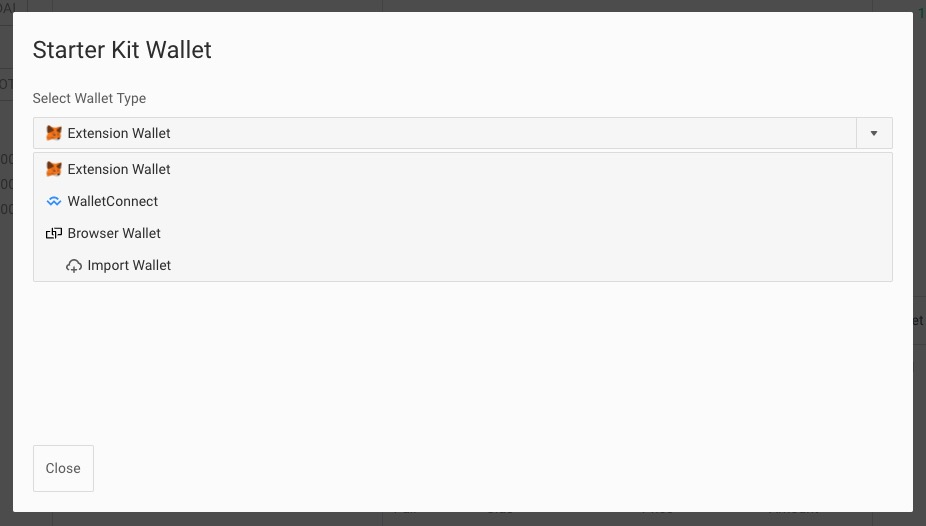
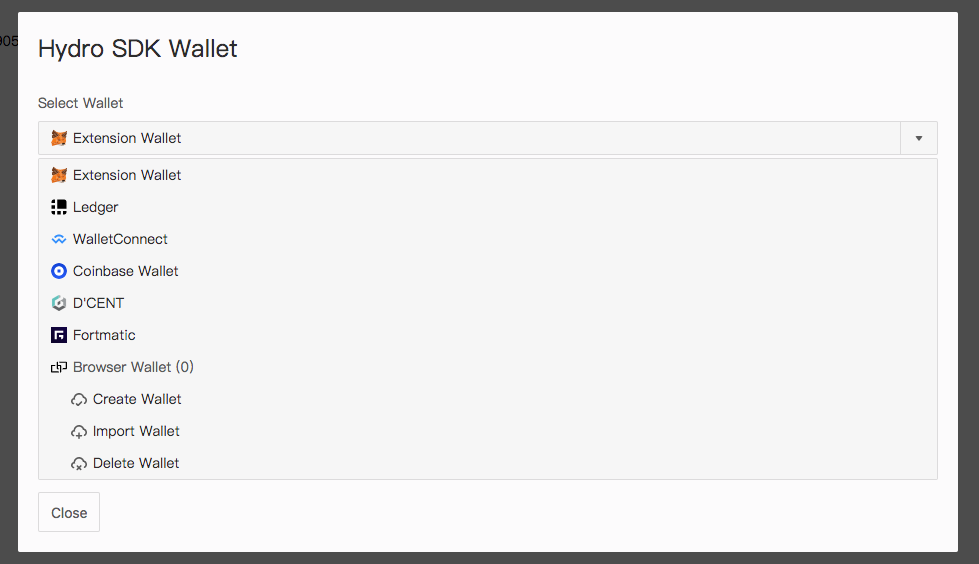
support fortmatic & update readme

Changed region(s): [[0.0, 0.0, 0.9978, 0.9734], [0.0302, 0.9734, 0.9676, 1.0], [0.0605, 0.6996, 0.1814, 0.8517]]

diff --git a/src/components/Svg/index.tsx b/src/components/Svg/index.tsx
@@ -321,6 +321,12 @@ class Svg extends React.PureComponent<Props, any> {
             </linearGradient>
           </defs>
         </svg>)
+      case 'fortmatic':
+        return (
+          <svg xmlns="http://www.w3.org/2000/svg" version="1.1" id="Layer_1" x="0px" y="0px" width="16" height="16" viewBox="0 0 256 256" enableBackground="new 0 0 256 256">  
[1 lines of base64/hex data omitted]
+          </svg>
+        )
       default:
         return null;
     }

diff --git a/src/components/Wallet/index.tsx b/src/components/Wallet/index.tsx
@@ -17,7 +17,8 @@ import {
   HydroWallet,
   globalNodeUrl,
   Dcent,
-  CoinbaseWallet
+  CoinbaseWallet,
+  Fortmatic
 } from "../../wallets";
 import { WalletState, AccountState } from "../../reducers/wallet";
 import { getSelectedAccount } from "../../selector/wallet";
@@ -34,7 +35,8 @@ import {
   setUnit,
   destoryTimer,
   loadCoinbaseWallet,
-  loadDcentWallet
+  loadDcentWallet,
+  loadFortmaticWallet
 } from "../../actions/wallet";
 import Svg from "../Svg";
 import LedgerConnector from "./LedgerConnector";
@@ -70,6 +72,7 @@ interface Props {
   decimals?: number;
   copyCallback?: (text: string) => any;
   dcent?: any;
+  fortmaticApiKey?: string;
   appName?: string;
   appLogoUrl?: string;
 }
@@ -182,8 +185,11 @@ class Wallet extends React.PureComponent<Props, State> {
       desc = "";
     if (selectedWalletType) {
       const key = selectedWalletType.toLowerCase();
-      title = walletTranslations.walletDesc[key].title;
-      desc = walletTranslations.walletDesc[key].desc;
+      const walletDesc = walletTranslations.walletDesc[key];
+      if (walletDesc) {
+        title = walletDesc.title;
+        desc = walletDesc.desc;
+      }
     }
     return (
       <div className="HydroSDK-walletDesc">
@@ -195,7 +201,11 @@ class Wallet extends React.PureComponent<Props, State> {
 
   private renderFeatureButton() {
     const { selectedWalletType, walletTranslations, accounts } = this.props;
-    if (selectedWalletType !== Dcent.TYPE && selectedWalletType !== CoinbaseWallet.TYPE) {
+    if (
+      selectedWalletType !== Dcent.TYPE &&
+      selectedWalletType !== CoinbaseWallet.TYPE &&
+      selectedWalletType !== Fortmatic.TYPE
+    ) {
       return null;
     }
 
@@ -226,12 +236,14 @@ class Wallet extends React.PureComponent<Props, State> {
   }
 
   private connectBridge() {
-    const { selectedWalletType, dispatch, dcent, appName, appLogoUrl } = this.props;
+    const { selectedWalletType, dispatch, dcent, appName, appLogoUrl, fortmaticApiKey } = this.props;
 
     if (selectedWalletType === CoinbaseWallet.TYPE) {
       dispatch(loadCoinbaseWallet(appName, appLogoUrl));
     } else if (selectedWalletType === Dcent.TYPE && dcent) {
       dispatch(loadDcentWallet(dcent));
+    } else if (selectedWalletType === Fortmatic.TYPE && fortmaticApiKey) {
+      dispatch(loadFortmaticWallet(fortmaticApiKey));
     }
   }
 
@@ -260,7 +272,11 @@ class Wallet extends React.PureComponent<Props, State> {
               desc={walletTranslations.installMetamaskDesc}
             />
           );
-        } else if (selectedWalletType === Dcent.TYPE || selectedWalletType === CoinbaseWallet.TYPE) {
+        } else if (
+          selectedWalletType === Dcent.TYPE ||
+          selectedWalletType === CoinbaseWallet.TYPE ||
+          selectedWalletType === Fortmatic.TYPE
+        ) {
           const selectedAccount = accounts.get(selectedWalletType);
           const selectedAddress = selectedAccount ? selectedAccount.get("address") : null;
           if (!selectedAddress) {
@@ -392,7 +408,7 @@ class Wallet extends React.PureComponent<Props, State> {
   }
 
   private getWalletsOptions(): Option[] {
-    let { dispatch, menuOptions, dcent } = this.props;
+    let { dispatch, menuOptions, dcent, fortmaticApiKey } = this.props;
     if (!menuOptions) {
       menuOptions = [
         {
@@ -456,6 +472,21 @@ class Wallet extends React.PureComponent<Props, State> {
             <div className="HydroSDK-optionItem">
               <Svg name="dcent" />
               {Dcent.LABEL}
+            </div>
+          ),
+          onSelect: (option: Option) => {
+            dispatch(setWalletStep(WALLET_STEPS.SELECT));
+            dispatch(selectWalletType(option.value));
+          }
+        });
+      }
+      if (fortmaticApiKey) {
+        menuOptions.push({
+          value: Fortmatic.TYPE,
+          component: (
+            <div className="HydroSDK-optionItem">
+              <Svg name="fortmatic" />
+              {Fortmatic.LABEL}
             </div>
           ),
           onSelect: (option: Option) => {

diff --git a/src/wallets/fortmatic.tsx b/src/wallets/fortmatic.tsx
@@ -1,29 +1,36 @@
 import BaseWallet, { txParams } from "./baseWallet";
-import WalletLink from "walletlink";
+// @ts-ignore
+import FortmaticClass from "fortmatic";
 import { globalNodeUrl } from ".";
-import { payloadId } from "@walletconnect/utils";
 
-export default class CoinbaseWallet extends BaseWallet {
-  public static LABEL = "Coinbase Wallet";
-  public static TYPE = "COINBASE_WALLET";
-  public ethereum: any;
+export default class Fortmatic extends BaseWallet {
+  public static LABEL = "Fortmatic";
+  public static TYPE = "FORTMATIC";
+  public provider?: any;
+  public fortmatic: any;
+  public address?: string;
 
-  public constructor(networkId: number, appName?: string, appLogoUrl?: string) {
+  public constructor(apiKey: string) {
     super();
-    const walletLink = new WalletLink({ appName: appName || "Hydro", appLogoUrl: appLogoUrl || "" });
-    this.ethereum = walletLink.makeWeb3Provider(globalNodeUrl, networkId);
+    let network;
+    if (globalNodeUrl.includes("ropsten")) {
+      network = "ropsten";
+    } else if (globalNodeUrl.includes("kovan")) {
+      network = "kovan";
+    }
+    this.fortmatic = new FortmaticClass(apiKey, network);
   }
 
   public type(): string {
-    return CoinbaseWallet.TYPE;
+    return Fortmatic.TYPE;
   }
 
   public id(): string {
-    return CoinbaseWallet.TYPE;
+    return Fortmatic.TYPE;
   }
 
-  public clearSession() {
-    this.ethereum._relay.storage.clear();
+  public async clearSession() {
+    return await this.fortmatic.user.logout();
   }
 
   public loadNetworkId(): Promise<number | undefined> {
@@ -78,10 +85,10 @@ export default class CoinbaseWallet extends BaseWallet {
       params = [];
     }
     return new Promise(async (resolve, reject) => {
-      if (!this.ethereum) {
+      if (!this.provider) {
         return reject(BaseWallet.NotSupportedError);
       }
-      this.ethereum.sendAsync([{ jsonrpc: "2.0", id: payloadId(), method, params }], (err: Error | null, res: any) => {
+      this.provider.sendAsync([{ method, params }], (err: Error | null, res: any) => {
         if (err) {
           reject(err);
         } else {
@@ -92,20 +99,20 @@ export default class CoinbaseWallet extends BaseWallet {
   }
 
   public getAddresses(): Promise<string[]> {
-    return new Promise(async (resolve, reject) => {
+    return new Promise((resolve, reject) => {
       if (!this.isSupported()) {
         reject(BaseWallet.NotSupportedError);
       }
-      const res = await this.sendCustomRequest("eth_accounts");
-      resolve(res.result);
+      resolve([this.provider.account]);
     });
   }
 
   public async enable(): Promise<void> {
-    if (!this.ethereum) {
+    if (!this.fortmatic) {
       return;
     }
-    await this.ethereum.enable();
+    this.provider = this.fortmatic.getProvider();
+    await this.provider.enable();
   }
 
   public isLocked(address: string | null): boolean {
@@ -113,10 +120,10 @@ export default class CoinbaseWallet extends BaseWallet {
   }
 
   public isSupported(): boolean {
-    return !!this.ethereum && !!this.ethereum.isWalletLink;
+    return !!this.provider && this.provider.isLoggedIn;
   }
 
   public name(): string {
-    return "CoinbaseWallet";
+    return "Fortmatic";
   }
 }

diff --git a/src/actions/wallet.ts b/src/actions/wallet.ts
@@ -11,7 +11,8 @@ import {
   ImToken,
   Dcent,
   CoinbaseWallet,
-  getNetworkID
+  getNetworkID,
+  Fortmatic
 } from "../wallets";
 import { AccountState } from "../reducers/wallet";
 export const WALLET_STEPS = {
@@ -254,6 +255,16 @@ export const loadDcentWallet = (dcent: any) => {
   };
 };
 
+export const loadFortmaticWallet = (apiKey: string) => {
+  return async (dispatch: any) => {
+    const wallet = new Fortmatic(apiKey);
+    await wallet.enable();
+    if (wallet.isSupported()) {
+      dispatch(watchWallet(wallet));
+    }
+  };
+};
+
 export const loadExtensitonWallet = () => {
   return async (dispatch: any) => {
     let wallet;
@@ -406,7 +417,7 @@ export const watchWallet = (wallet: BaseWallet) => {
         address &&
         accountID !== selectedAccountID &&
         type === selectedWalletType &&
-        (type === CoinbaseWallet.TYPE || type === Dcent.TYPE)
+        (type === CoinbaseWallet.TYPE || type === Dcent.TYPE || type === Fortmatic.TYPE)
       ) {
         dispatch(selectAccount(accountID, type));
       }

diff --git a/src/wallets/index.ts b/src/wallets/index.ts
@@ -6,6 +6,7 @@ import BaseWallet from "./baseWallet";
 import WalletConnectWallet from "./WalletConnectWallet";
 import Ledger from "./ledger";
 import Dcent from "./dcent";
+import Fortmatic from "./fortmatic";
 import request from "request";
 import { BigNumber } from "ethers/utils";
 import { Contract } from "ethers";
@@ -23,6 +24,7 @@ export {
   Ledger,
   ImToken,
   Dcent,
+  Fortmatic,
   CoinbaseWallet
 };
 

diff --git a/index.css b/index.css
@@ -101,7 +101,7 @@ body {
   flex-direction: column;
   overflow: hidden;
   background: #f7f7f7;
-  max-height: 240px;
+  max-height: 340px;
 }
 .HydroSDK-dropdown.up {
   bottom: 110%;

diff --git a/README.md b/README.md
@@ -11,12 +11,15 @@ There is a default ui in this package. You can also implement another ui as you 
 ### Support wallets:
 
 - Metamask
-- Wallet Connect Protocol
 - Browser Local Wallet
-- Ledger Wallet
-- Trust Wallet
-- Coinbase Wallet
-- Imtoken Wallet
+- [Wallet Connect Protocol](https://walletconnect.org/)
+- [Ledger Wallet](https://www.ledger.com/)
+- [Trust Wallet](https://trustwallet.com/)
+- [Coinbase Wallet](https://wallet.coinbase.com/)
+- [Imtoken Wallet](https://token.im/)
+- [Wallet Link (Coinbase Wallet)](https://www.walletlink.org)
+- [D'CENT Wallet](https://dcentwallet.com/)
+- [Fortmatic](https://fortmatic.com)
 
 ## Basic Usage Guide
 
@@ -101,18 +104,23 @@ export default connect(state => {
 
 ### Wallet Component Props
 
-| Name              | Type         | Default                     | Desc                                                                                              |
-| ----------------- | ------------ | --------------------------- | ------------------------------------------------------------------------------------------------- |
-| nodeUrl           | String       | `https://ropsten.infura.io` | Ethereum JSON RPC Endpoint.                                                                       |
-| defaultWalletType | String       | `EXTENSION`                 | default selected wallet type. Options are `EXTENSION`, `Hydro_Wallet`, `WALLETCONNECT`, `Ledger`. |
-| translations      | Translations | defaultTranslations         | i18n translations.                                                                                |
-| walletTypes       | Array        | defaultWalletTypes          | customized wallets.                                                                               |
-| menuOptions       | Option[]     | defaultMenuOptions          | customized wallet menu.                                                                           |
-| loadWalletActions | Actions      | {}                          | customized load wallet actions.                                                                   |
-| customLocalWallet | WalletClass  | HydroWallet                 | customized local wallet class.                                                                    |
-| hideLocalWallet   | Boolean      | false                       | Hide local wallet menu items.                                                                     |
-| unit              | String       | `ETH`                       | balance unit                                                                                      |
-| decimals          | number       | 18                          | balance decimals                                                                                  |
+| Name              | Type                   | Default                       | Desc                                                                                              |
+| ----------------- | ---------------------- | ----------------------------- | ------------------------------------------------------------------------------------------------- |
+| nodeUrl           | String                 | `https://ropsten.infura.io`   | Ethereum JSON RPC Endpoint.                                                                       |
+| defaultWalletType | String                 | `EXTENSION`                   | default selected wallet type. Options are `EXTENSION`, `Hydro_Wallet`, `WALLETCONNECT`, `Ledger`. |
+| translations      | Translations           | defaultTranslations           | i18n translations.                                                                                |
+| walletTypes       | Array                  | defaultWalletTypes            | customized wallets.                                                                               |
+| menuOptions       | Option[]               | defaultMenuOptions            | customized wallet menu.                                                                           |
+| loadWalletActions | Actions                | {}                            | customized load wallet actions.                                                                   |
+| customLocalWallet | WalletClass            | HydroWallet                   | customized local wallet class.                                                                    |
+| hideLocalWallet   | Boolean                | false                         | hide local wallet menu items.                                                                     |
+| unit              | String                 | `ETH`                         | balance unit.                                                                                     |
+| decimals          | number                 | 18                            | balance decimals.                                                                                 |
+| dcent             | DcentClass             |                               | support D'CENT wallet, if provided, will show D'CENT option in dropdown menu.                     |
+| appName           | string                 |                               | WalletLink prop.                                                                                  |
+| appLogoUrl        | string                 |                               | WalletLink prop.                                                                                  |
+| fortmaticApiKey   | string                 |                               | Fortmatic option, if provided, will show Fortmatic option in dropdown menu.                       |
+| copyCallback      | (text: string) => void | alert("Copied to clipboard!") | copy address callback.                                                                            |
 
 ### Selectors
 
@@ -146,7 +154,7 @@ const tx = {
   to: "0x0000000000000000000000000000000000000000",
   nonce: 1,
   gas: 100000,
-  value: 0,
+  value: "0x0",
   data: "0x0"
 };
 
